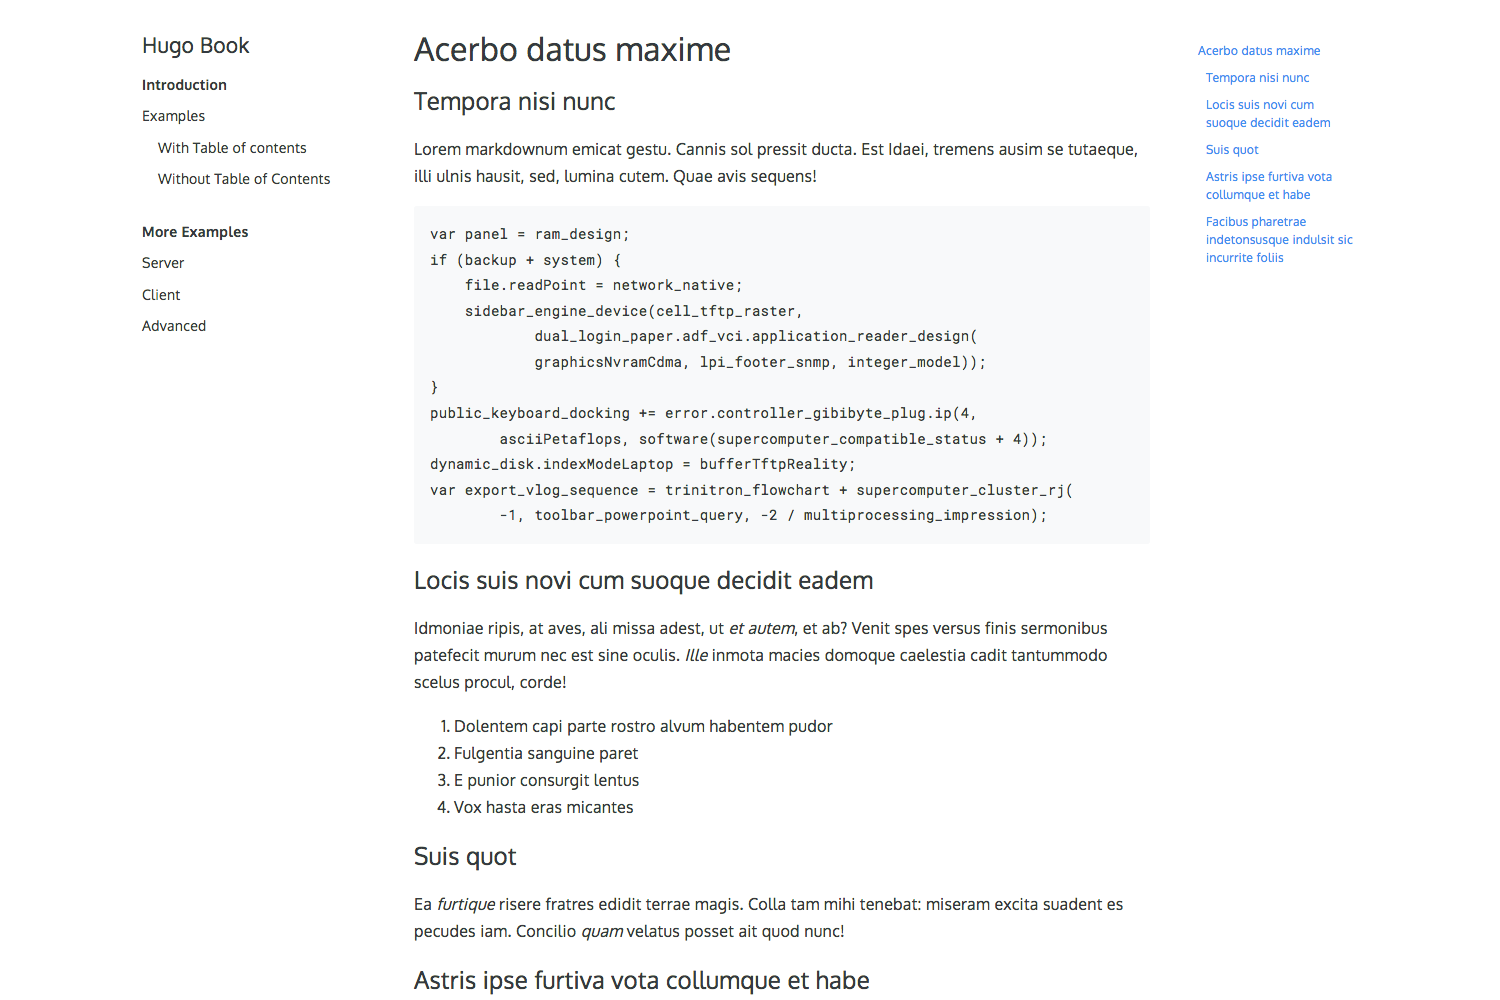
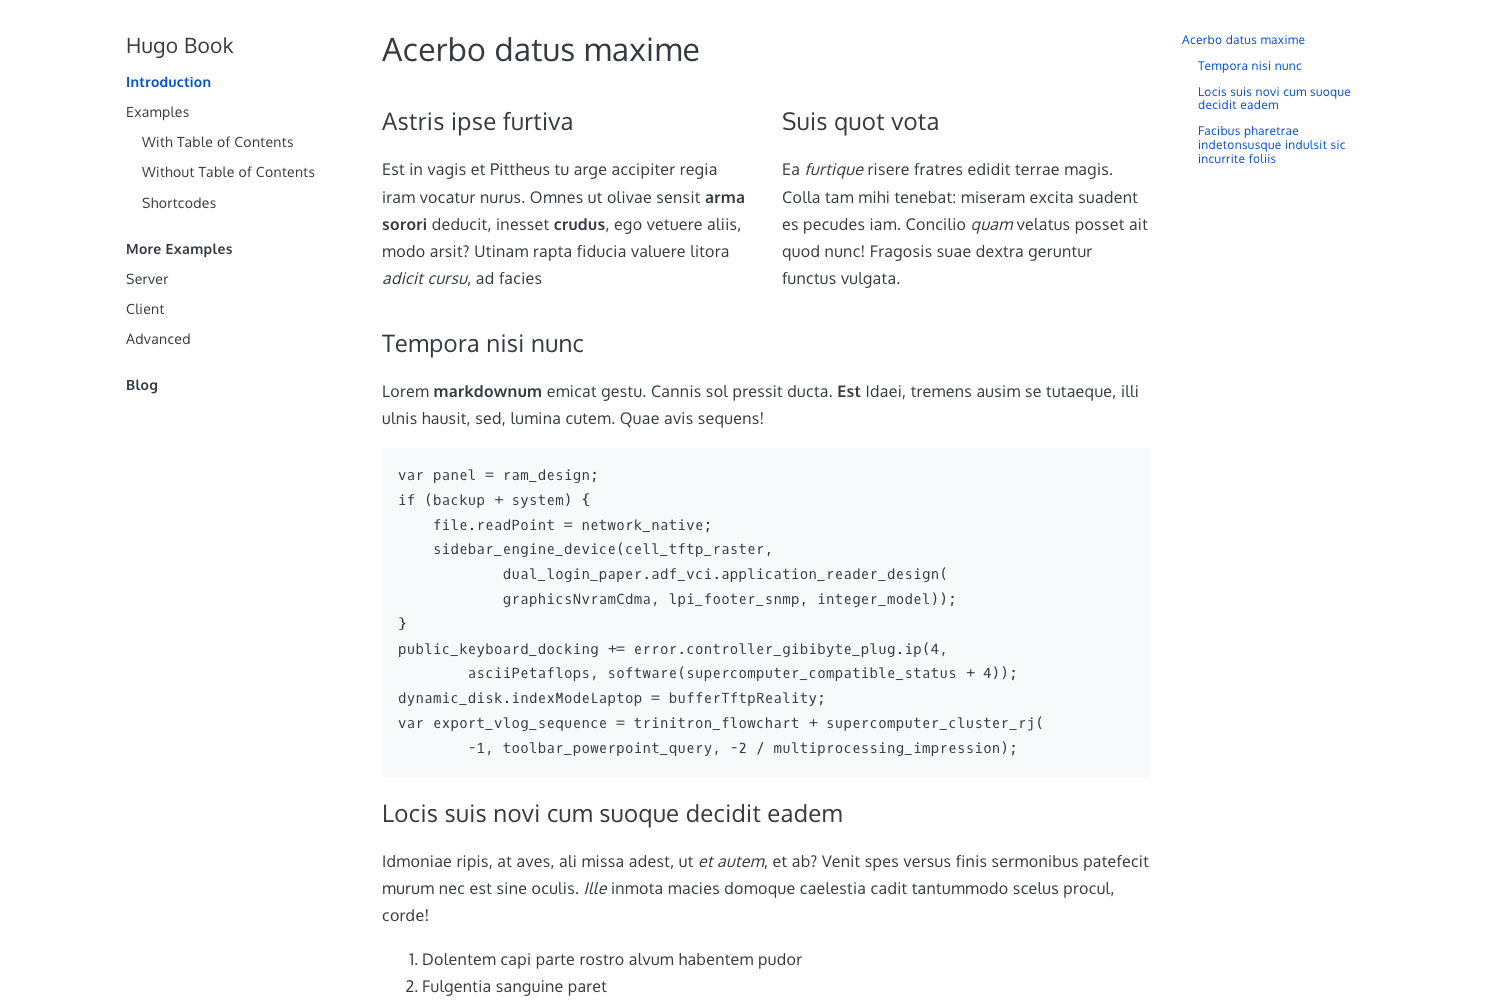
Update screenshots, clean tabs shortcode

diff --git a/layouts/shortcodes/tabs.html b/layouts/shortcodes/tabs.html
@@ -2,24 +2,6 @@
 {{ $id := .Get 0 }}
 {{ $group := printf "tabs-%s" $id }}
 
-<!-- 
-<div class="book-tabs">
-  <div class="book-tabs-head">
-  {{ range $index, $tab :=  .Scratch.Get $group }}
-    <label for="{{ printf "%s-%d" $group $index }}">
-      {{ $tab.Name }}
-    </label>
-  {{ end }}
-  </div>
-  {{ range $index, $tab := .Scratch.Get $group }}
-  <input type="radio" name="{{ $group }}" style="display: none;" id="{{ printf "%s-%d" $group $index }}" {{ if not $index }}checked="checked"{{ end }} />
-  <div class="book-tabs-content book-tabs-{{ $index }} markdown-inner">
-    {{ .Content | markdownify }}
-  </div>
-  {{ end }}
-</div>
--->
-
 <div class="book-tabs">
 {{ range $index, $tab :=  .Scratch.Get $group }}
   <input type="radio" name="{{ $group }}" style="display: none;" id="{{ printf "%s-%d" $group $index }}" {{ if not $index }}checked="checked"{{ end }} />
@@ -31,3 +13,4 @@
   </div>
 {{ end }}
 </div>
+<p></p>

diff --git a/assets/_shortcode.scss b/assets/_shortcode.scss
@@ -60,6 +60,9 @@
 
 // {{< columns >}}
 .book-columns > {
+  div {
+    max-width: 50%;
+  }
   div + div {
     margin-left: $padding-16 * 2;
   }

diff --git a/exampleSite/content/_index.md b/exampleSite/content/_index.md
@@ -22,6 +22,7 @@ miseram excita suadent es pecudes iam. Concilio _quam_ velatus posset ait quod
 nunc! Fragosis suae dextra geruntur functus vulgata.
 {{< /columns >}}
 
+
 ## Tempora nisi nunc
 
 Lorem **markdownum** emicat gestu. Cannis sol pressit ducta. **Est** Idaei,
